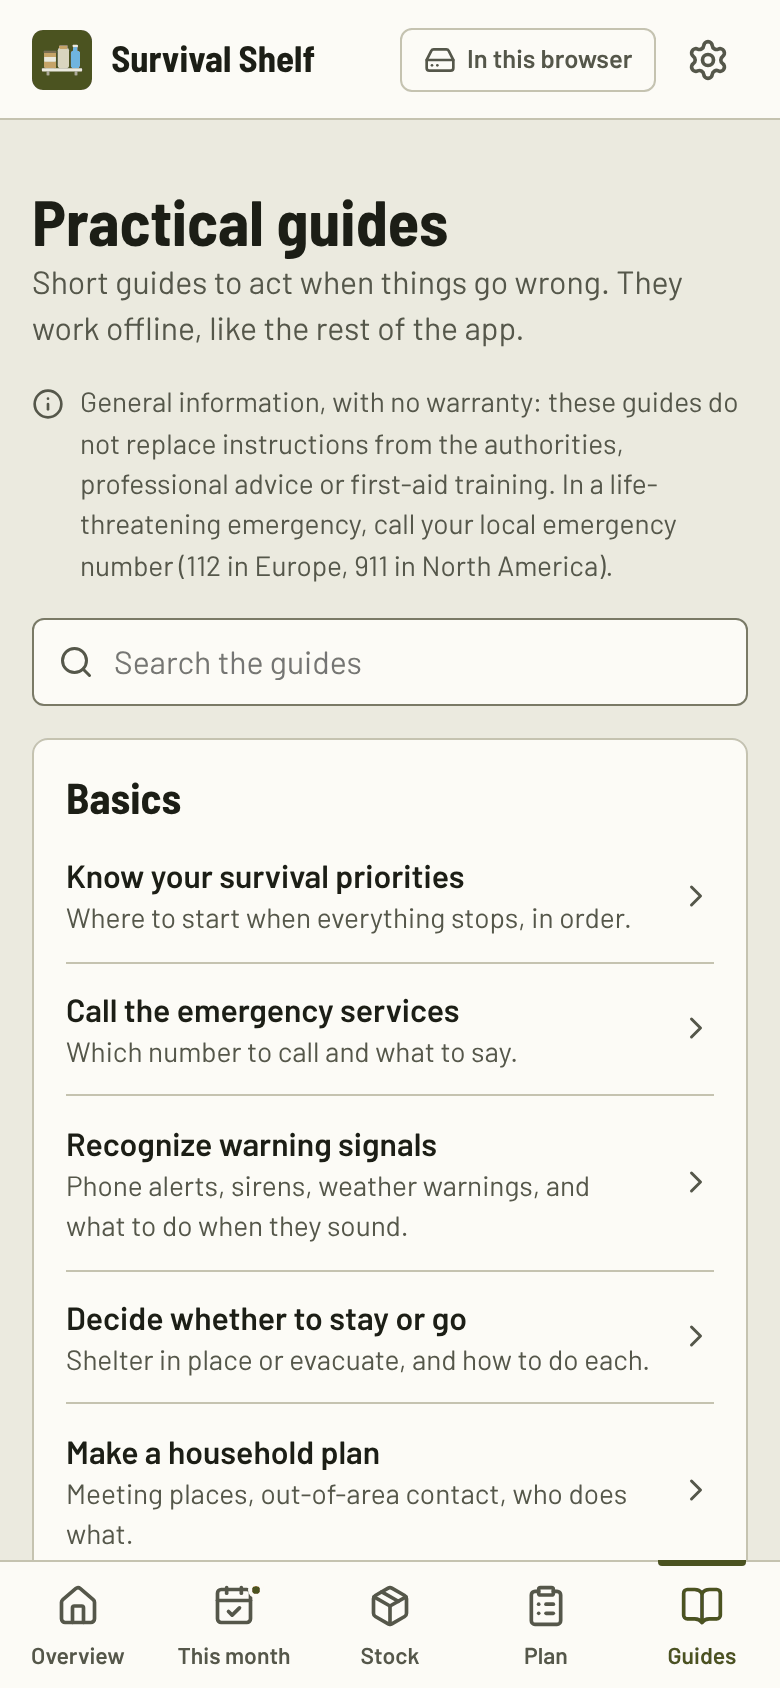
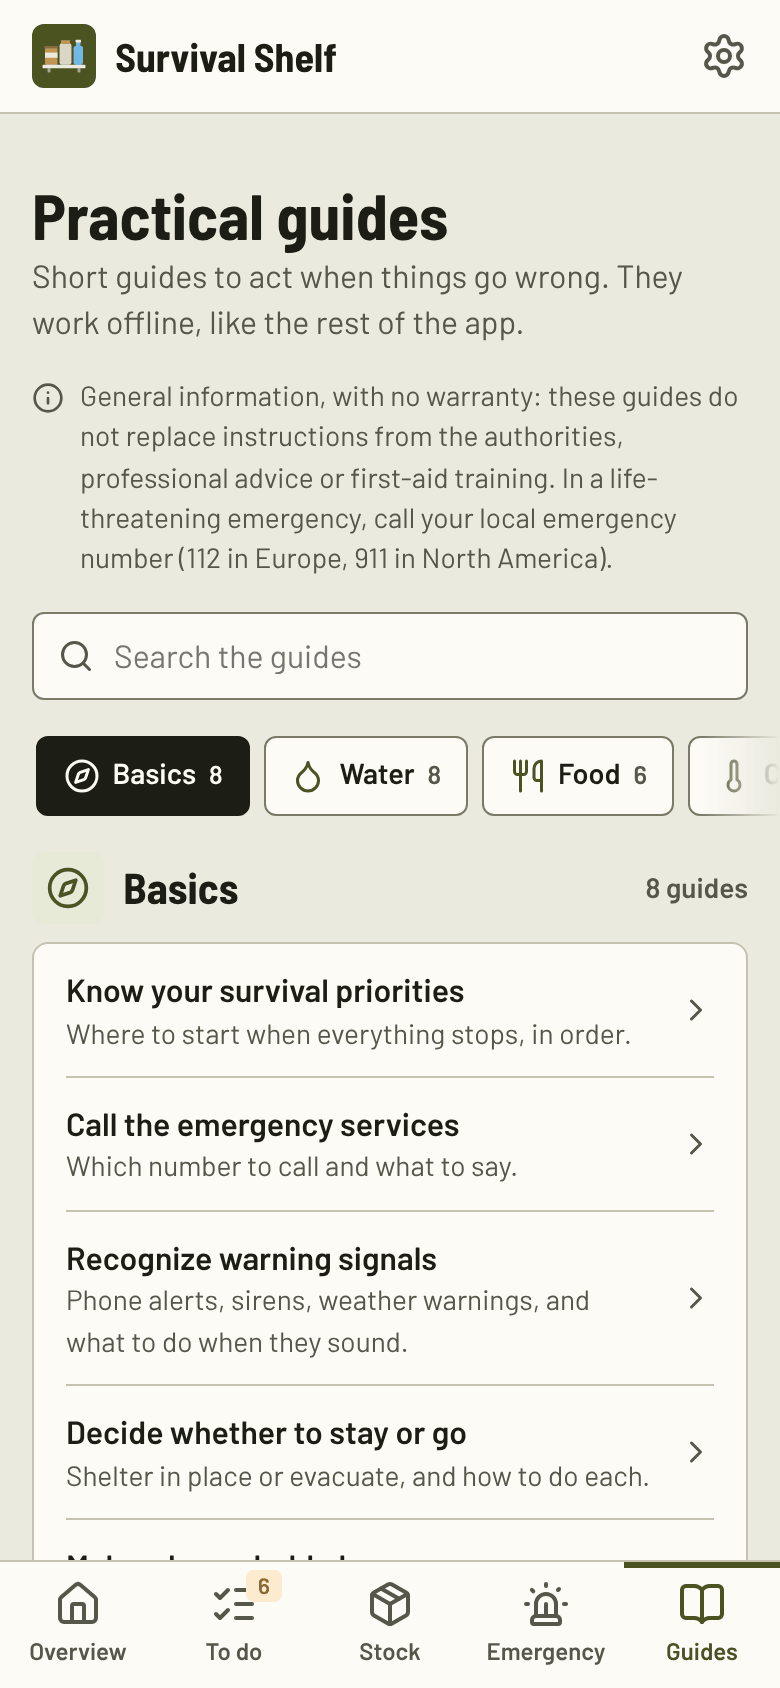
Show the new tabs and the emergency features in the README
The README showed the removed "My plan" page and none of the emergency features. It now has a
section on the Emergency tab (emergency info, go-bags, crisis mode) with three screenshots, a dark
screenshot of the food and water targets of a tier instead of the old plan page, new alt texts, and
a line on the reminders the to-do list adds. All screenshots were taken again from the sample stock.

Claude-Session: https://claude.ai/code/session_01VbHUrYp9VLxDxTrnGXTaAg

diff --git a/README.fr.md b/README.fr.md
@@ -19,7 +19,7 @@
 </p>
 
 <p align="center">
-  <img src="docs/screenshots/fr/desktop.png" width="760" alt="Accueil de Survival Shelf : 9 jours d’autonomie, avancement de chaque palier, rendez-vous du mois et alertes de péremption">
+  <img src="docs/screenshots/fr/desktop.png" width="760" alt="Accueil de Survival Shelf : les choses à faire, combien de temps le foyer peut tenir chez lui, les sacs d’évacuation et les infos d’urgence">
 </p>
 
 ## Pourquoi
@@ -39,7 +39,8 @@ pouvoir tenir seul au moins 72 heures.
 
 Survival Shelf s’occupe de tout ça. Dis-lui qui vit avec toi, il te fait une liste de courses. Dis-lui ce que
 tu as acheté, il suit les dates. Une fois par mois, il te dit quoi manger, quoi jeter, quoi remplacer et
-quoi acheter ensuite.
+quoi acheter ensuite. Il te prépare aussi pour le jour où ça arrive : les infos d’urgence de ton foyer, un sac
+d’évacuation par personne et un mode crise.
 
 ## Comment ça marche
 
@@ -59,18 +60,18 @@ quelques outils. Décoche ce qui ne te convient pas et ajuste les quantités.
 
 Personne n’achète un an de nourriture le premier jour. L’appli découpe l’objectif en paliers : **3 jours,
 1 semaine, 1 mois et 1 an** (tu peux les changer). Pour chaque palier, elle te montre où tu en es et ce qui
-manque encore. Au-delà d’un mois, stocker toute ton eau n’est pas réaliste : un filtre à eau ou des pastilles
-de purification prennent le relais.
+manque encore, produit par produit. Au-delà d’un mois, stocker toute ton eau n’est pas réaliste : un filtre à
+eau ou des pastilles de purification prennent le relais.
 
 <p align="center">
-  <img src="docs/screenshots/fr/home.png" width="260" alt="Accueil : jours d’autonomie, limités par l’eau, et avancement de chaque palier">
-  <img src="docs/screenshots/fr/plan-dark.png" width="260" alt="Mon plan, thème sombre : besoins du foyer et eau par palier">
+  <img src="docs/screenshots/fr/home.png" width="260" alt="Accueil : les choses à faire, les jours que le foyer peut tenir chez lui, limités par l’eau, et l’avancement du palier en cours">
+  <img src="docs/screenshots/fr/food-dark.png" width="260" alt="Vivres, thème sombre : ce qui manque à chaque produit pour le palier 1 mois">
 </p>
 
 ### 3. Note ce que tu ranges
 
 Quand tu fais tes courses, ajoute chaque produit avec sa quantité, sa date de péremption et l’endroit où tu le
-ranges (cellier, cuisine, sac 72 h…). Pas de date sur l’emballage ? L’appli en estime une à partir des
+ranges (cellier, cuisine, sac d’évacuation…). Pas de date sur l’emballage ? L’appli en estime une à partir des
 [durées de conservation](docs/SHELF_LIFE.md) habituelles (page en anglais). Des pastilles de couleur montrent
 ce qui périme bientôt, et l’appli te dit combien de jours ton foyer pourrait tenir avec ce que tu as, en
 nourriture et en eau.
@@ -80,7 +81,7 @@ mesure ; les **consommables** (piles, gaz, médicaments, hygiène…), remplacé
 **matériel** (outils, lampes, réchaud…), juste prêt ou manquant.
 
 <p align="center">
-  <img src="docs/screenshots/fr/stock.png" width="260" alt="Stock en trois rayons : vivres, consommables et matériel">
+  <img src="docs/screenshots/fr/stock.png" width="260" alt="Le stock en trois rayons, ici les consommables : ce qu’il faut remplacer d’abord, puis chaque produit face à son objectif">
 </p>
 
 ### 4. Une fois par mois, un rendez-vous de 5 minutes
@@ -95,16 +96,41 @@ Une seule liste, en quatre parties :
   quotidien, puis mets-en des neufs sur l’étagère.
 - **À acheter** : ce qui manque encore au palier que tu construis, rangé par rayon.
 
+Le moment venu, la liste te rappelle aussi de relire les infos d’urgence avec ton foyer et de vérifier chaque
+sac d’évacuation.
+
 Coche au fur et à mesure, partage ou copie la liste pour tes courses. L’appli peut mettre un rappel récurrent
 dans ton agenda (iPhone, Google, Outlook…) pour ne pas oublier. Tu préfères tous les 3 ou 6 mois ? C’est toi
 qui vois.
 
 <p align="center">
-  <img src="docs/screenshots/fr/checkin.png" width="260" alt="Ce mois-ci : à jeter, à manger, à remplacer, à acheter">
+  <img src="docs/screenshots/fr/checkin.png" width="260" alt="La liste À faire, le plus urgent en haut : à jeter, à manger, à remplacer, à acheter">
 </p>
 
 Et pour le jour où il n’y a plus de courant : imprime ton inventaire, avec de la place pour noter ce que tu
 prends.
+
+### 5. Prépare-toi pour le jour où ça arrive
+
+L’onglet **Urgence**, c’est là que tu te prépares à l’avance, et ce que tu ouvres le jour même.
+
+- **Infos d’urgence** : le plan de ton foyer, au même endroit : numéros d’urgence, contact éloigné, lieux de
+  rendez-vous, qui fait quoi, comment couper le gaz, l’eau et l’électricité, traitements et allergies de
+  chacun. La fiche [Préparer un plan pour le foyer](guides/fr/les-bases/preparer-un-plan-pour-le-foyer.md)
+  t’aide à le préparer avec ton foyer. Imprime-le, et relis-le tous les 6 mois.
+- **Sacs d’évacuation** : un sac par personne, prêt à attraper s’il faut partir. La liste suit la fiche
+  [Préparer un sac d’évacuation](guides/fr/les-bases/preparer-un-sac-d-evacuation.md). Ce que tu ranges dans un
+  sac reste dans ton stock : l’appli surveille donc aussi ses dates, et te rappelle de vérifier chaque sac une
+  fois par an.
+- **Mode crise** : un bouton, et l’accueil ne montre plus que l’essentiel : combien de jours tu peux tenir,
+  l’eau à boire aujourd’hui, bouteille par bouteille, et quoi manger d’abord. Des raccourcis mènent au numéro
+  d’urgence, aux infos d’urgence, aux sacs et aux fiches.
+
+<p align="center">
+  <img src="docs/screenshots/fr/emergency.png" width="260" alt="L’onglet Urgence : infos d’urgence, sacs d’évacuation et le bouton pour passer en mode crise">
+  <img src="docs/screenshots/fr/bag.png" width="260" alt="Un sac d’évacuation : ce qu’il contient, ce qui manque et quand son eau et sa nourriture périment">
+  <img src="docs/screenshots/fr/crisis.png" width="260" alt="Mode crise : les jours restants, l’eau à boire aujourd’hui, bouteille par bouteille, et quoi manger d’abord">
+</p>
 
 ## Pour commencer
 

diff --git a/README.md b/README.md
@@ -19,7 +19,7 @@
 </p>
 
 <p align="center">
-  <img src="docs/screenshots/en/desktop.png" width="760" alt="Survival Shelf overview: 9 days of autonomy, progress of each tier, this month's check-in and expiry alerts">
+  <img src="docs/screenshots/en/desktop.png" width="760" alt="Survival Shelf overview: things to do, how long the household can hold out at home, the go-bags and the emergency info">
 </p>
 
 ## Why
@@ -38,7 +38,8 @@ Saying "keep some supplies at home" is easy. Doing it is another story:
 
 Survival Shelf takes care of all that. Tell it who lives with you, and it gives you a shopping plan. Tell it
 what you bought, and it keeps track of the dates. Once a month, it tells you what to eat, what to throw away,
-what to replace and what to buy next.
+what to replace and what to buy next. It also gets you ready for the day it happens: emergency info for your
+household, a go-bag per person and a crisis mode.
 
 ## How it works
 
@@ -56,18 +57,19 @@ plus hygiene, first aid, light, energy and a few tools. Untick what does not sui
 ### 2. Build it tier by tier
 
 Nobody buys a year of food on day one. The app splits the goal into tiers: **3 days, 1 week, 1 month and
-1 year** (you can change them). For each tier it shows how far along you are and what is still missing.
-Beyond a month, storing all your water is not realistic: a water filter or purification tablets take over.
+1 year** (you can change them). For each tier it shows how far along you are and what is still missing,
+product by product. Beyond a month, storing all your water is not realistic: a water filter or purification
+tablets take over.
 
 <p align="center">
-  <img src="docs/screenshots/en/home.png" width="260" alt="Overview: days of autonomy, limited by water, and progress of each tier">
-  <img src="docs/screenshots/en/plan-dark.png" width="260" alt="My plan, dark theme: household needs and water per tier">
+  <img src="docs/screenshots/en/home.png" width="260" alt="Overview: things to do, days the household can hold out at home, limited by water, and progress of the current tier">
+  <img src="docs/screenshots/en/food-dark.png" width="260" alt="Food and water, dark theme: what each product still needs for the 1-month tier">
 </p>
 
 ### 3. Note what goes on the shelf
 
 When you shop, add each item with its quantity, its expiry date and where you keep it (cellar, kitchen,
-72-hour bag…). No date on the packaging? The app estimates one from typical
+go-bag…). No date on the packaging? The app estimates one from typical
 [shelf lives](docs/SHELF_LIFE.md). Colored badges show what expires soon, and the app tells you how many days
 your household could live on what you have, for food and for water.
 
@@ -76,7 +78,7 @@ The stock has three aisles, each looked after in its own way: **food & water**, 
 stove…), simply ready or missing.
 
 <p align="center">
-  <img src="docs/screenshots/en/stock.png" width="260" alt="Stock in three aisles: food and water, consumables and gear">
+  <img src="docs/screenshots/en/stock.png" width="260" alt="The stock in three aisles, here the consumables: what to replace first, then each product against its target">
 </p>
 
 ### 4. Once a month, a 5-minute check-in
@@ -90,14 +92,38 @@ One list, four parts:
   then put new ones on the shelf.
 - **To buy**: what the tier you are building is still missing, grouped by aisle.
 
+When the time comes, the list also reminds you to read the emergency info again with your household and to
+check each go-bag.
+
 Tick things off as you go, share or copy the list for your shopping. The app can put a recurring reminder in
 your calendar (iPhone, Google, Outlook…) so you don't forget. Prefer every 3 or 6 months? Your call.
 
 <p align="center">
-  <img src="docs/screenshots/en/checkin.png" width="260" alt="This month: to discard, to eat, to replace, to buy">
+  <img src="docs/screenshots/en/checkin.png" width="260" alt="The to-do list, most urgent first: to discard, to eat, to replace, to buy">
 </p>
 
 And for the day the power is out: print your inventory, with room to note what you take.
+
+### 5. Get ready for the day it happens
+
+The **Emergency** tab is where you get ready in advance, and what you open on the day itself.
+
+- **Emergency info**: your household plan in one place: emergency numbers, a contact out of the area, meeting
+  points, who does what, how to shut off gas, water and electricity, the treatments and allergies of each
+  person. The guide [Make a household plan](guides/en/basics/make-a-household-plan.md) helps you agree on it.
+  Print it, and read it again every 6 months.
+- **Go-bags**: one bag per person, ready to grab if you have to leave. The list follows the guide
+  [Pack a go-bag](guides/en/basics/pack-a-go-bag.md). What you put in a bag stays in your stock, so the app
+  watches its dates too, and reminds you to check each bag once a year.
+- **Crisis mode**: one button, and the home screen shows only what matters: how many days you can hold out,
+  the water to drink today, bottle by bottle, and what to eat first. Shortcuts lead to the emergency number,
+  the emergency info, the go-bags and the guides.
+
+<p align="center">
+  <img src="docs/screenshots/en/emergency.png" width="260" alt="The Emergency tab: emergency info, go-bags and the button to switch to crisis mode">
+  <img src="docs/screenshots/en/bag.png" width="260" alt="A go-bag: what is in it, what is missing and when its water and food expire">
+  <img src="docs/screenshots/en/crisis.png" width="260" alt="Crisis mode: days left, the water to drink today, bottle by bottle, and what to eat first">
+</p>
 
 ## Get started
 

diff --git a/.github/CONTRIBUTING.md b/.github/CONTRIBUTING.md
@@ -164,7 +164,7 @@ The practical guides are plain Markdown pages, readable without the app, in
 ## Screenshots
 
 README screenshots live in `docs/screenshots/<lang>/`, one set per language. They are taken from the sample
-stock (*Try with sample data*), in light theme except `plan-dark.png`: phones at 390 × 844 and the computer at
+stock (*Try with sample data*), in light theme except `food-dark.png`: phones at 390 × 844 and the computer at
 1280 × 800, both at 2× pixel density, saved as 256-color PNGs to keep the repository light.
 
 ## AI-assisted contributions
